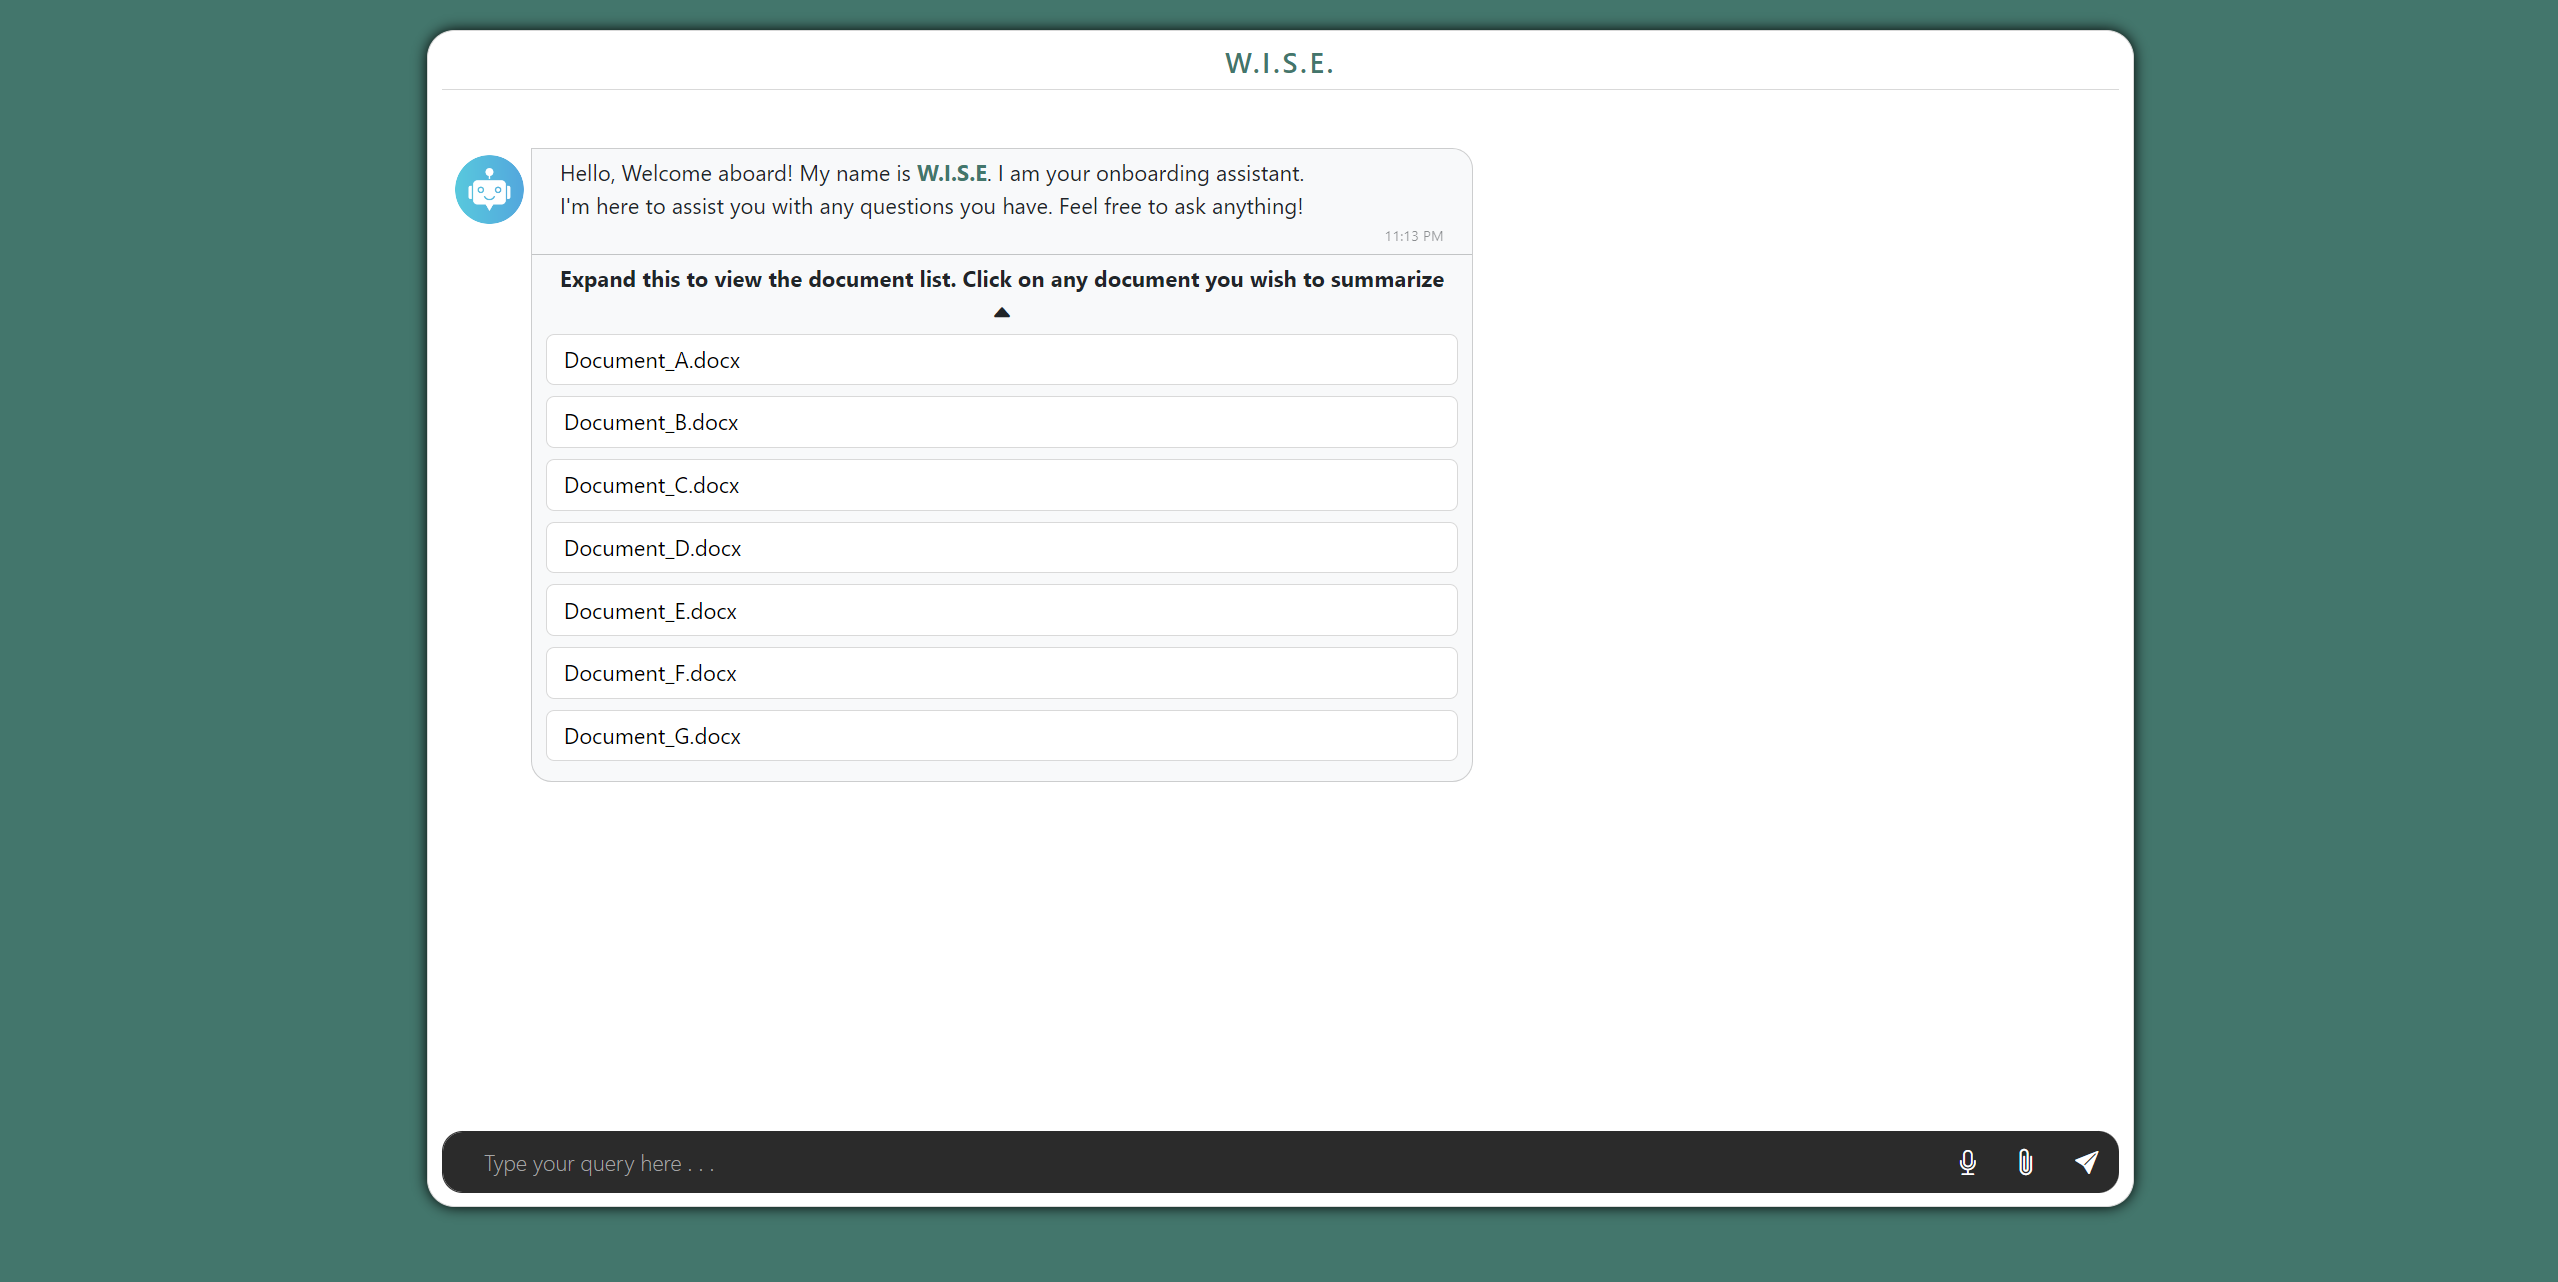
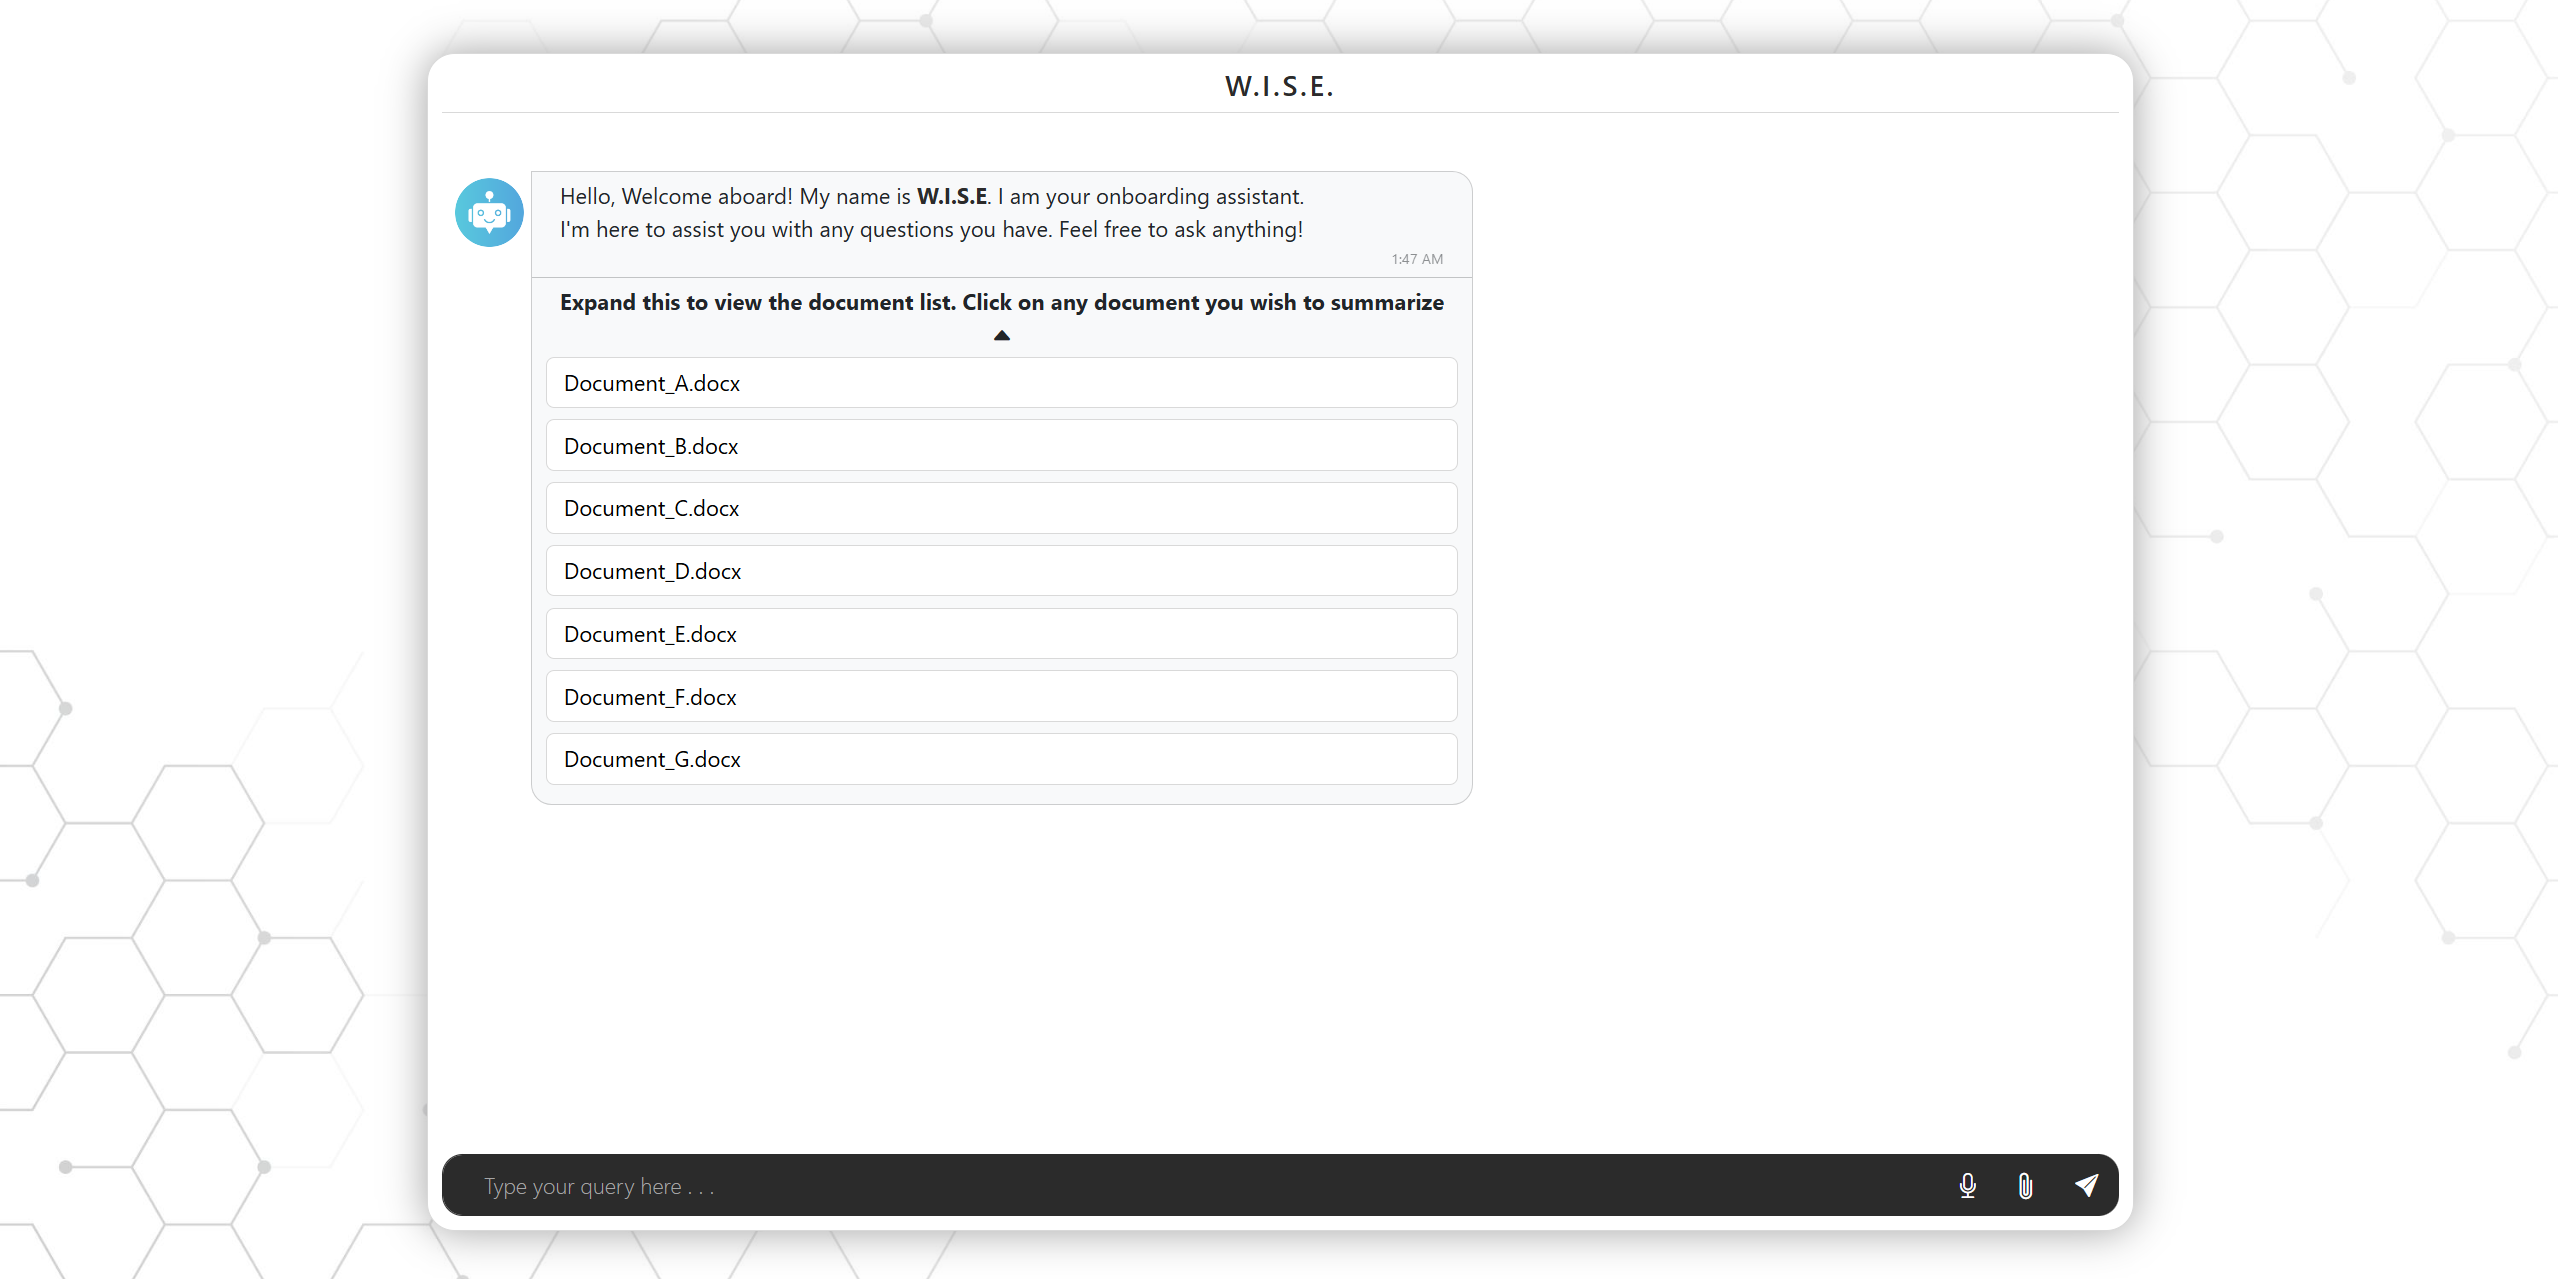
Changed background image

diff --git a/templates/index.html b/templates/index.html
@@ -19,11 +19,11 @@
 </head>
 
 <body>
-    <div class="container-fluid mt-4">
+    <div class="container-fluid">
         <div class="row">
             <div class="col-md-8 offset-md-2 chat-container">
                 <div class="bot-name">
-                    <h5 class="" style="color: #43766C;" title="W.I.S.E-Welcome|Inform|Support|Engage">W.I.S.E.</h5>
+                    <h5 class="" style="color: #2b2b2b;" title="W.I.S.E-Welcome|Inform|Support|Engage">W.I.S.E.</h5>
                 </div>
                 <div class="card-body message-container" id="messages"> <!-- messagesDiv -->
                     <div class="d-flex justify-content-end message-block mb-3"> <!-- MessageBlock -->

diff --git a/static/js/script.js b/static/js/script.js
@@ -35,7 +35,7 @@ let timeoutId;
 
 // Print the welcome message
 window.onload = function () {
-    setTimeout(() => createMessageBlock(`Hello, Welcome aboard! My name is <strong class="p-0" style="color: #43766C;">W.I.S.E</strong>. I am your onboarding assistant.<br>I'm here to assist you with any questions you have. Feel free to ask anything!`, 'other'), 500);
+    setTimeout(() => createMessageBlock(`Hello, Welcome aboard! My name is <strong class="p-0" style="color: #2b2b2b;">W.I.S.E</strong>. I am your onboarding assistant.<br>I'm here to assist you with any questions you have. Feel free to ask anything!`, 'other'), 500);
 };
 
 // Start standby timer

diff --git a/static/css/style.css b/static/css/style.css
@@ -1,5 +1,12 @@
 body {
-    background-color: #43766C;
+    /* background-color: #101720; */
+    background: url('../images/bg.jpg');
+    background-repeat: no-repeat;
+    background-size: cover;
+    height: 100vh;
+    display: flex;
+    justify-content: center;
+    align-items: center;
 }
 
 .chat-container {
@@ -7,7 +14,7 @@ body {
     background-color: #fff;
     border-radius: 20px;
     padding: 10px;
-    box-shadow: 0px 0px 10px rgb(0, 0, 0);
+    box-shadow: 0px 0px 30px rgb(162, 162, 162);
 }
 
 .message-container {
